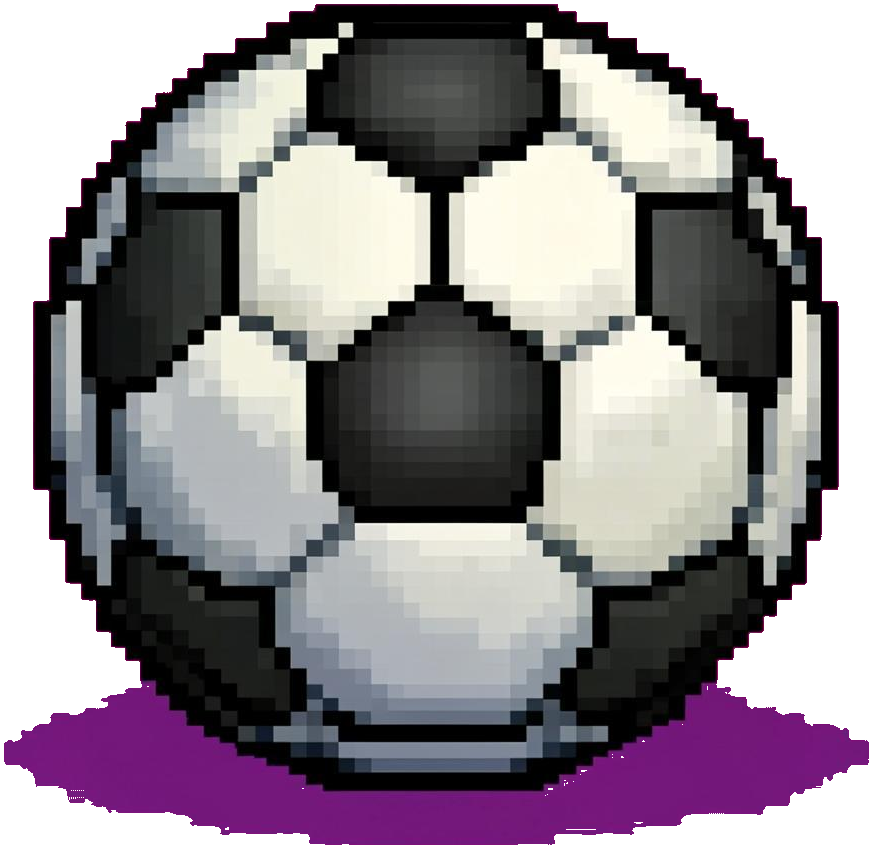
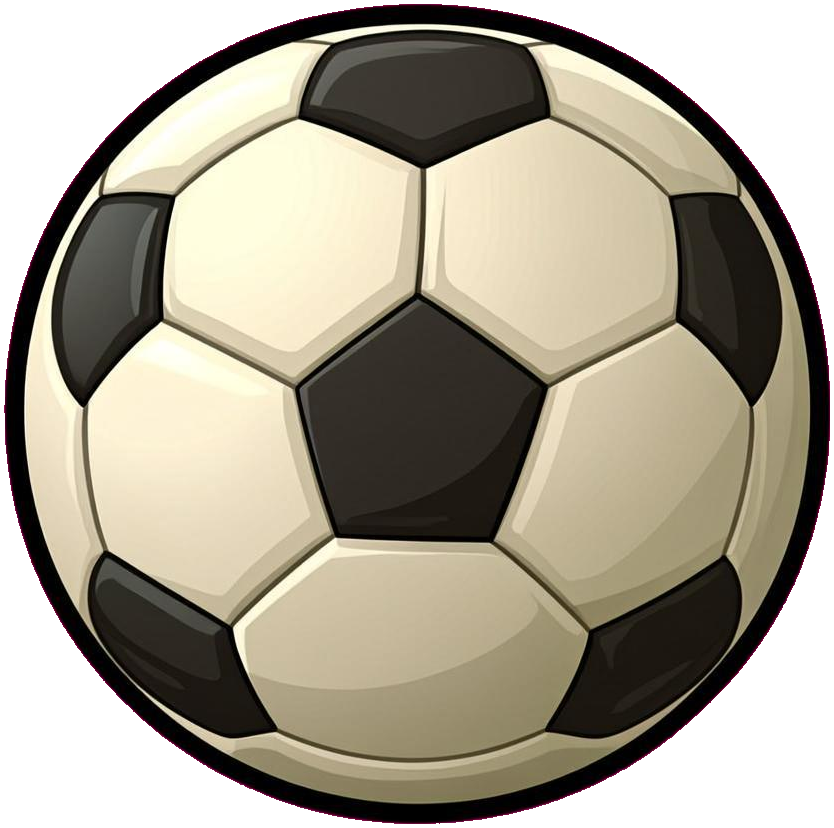
feat: vector-cartoon art pass — AI sky_sunset background, pitch radial glow (image-1 style), test stub for radial gradient

diff --git a/js_parts/09_render.js b/js_parts/09_render.js
@@ -36,6 +36,15 @@ RTL.render = (function (C, m, W, S) {
   /* ================= scene pieces ================= */
 
   function drawSky(ctx, view) {
+    /* AI-generated sunset sky (sky_sunset.png) when loaded — cover-fit.
+       Procedural gradient+sun remains the fallback and light-flicker layer. */
+    const skyImg = (typeof RTL !== "undefined" && RTL.art && RTL.art.get("sky_sunset")) || null;
+    if (skyImg) {
+      const s = Math.max(view.w / skyImg.width, view.h / skyImg.height);
+      const dw = skyImg.width * s, dh = skyImg.height * s;
+      ctx.drawImage(skyImg, (view.w - dw) / 2, (view.h - dh) / 2, dw, dh);
+      return;
+    }
     /* POP-ART SUNSET: purple top -> hot pink -> orange blaze at the horizon */
     const g = ctx.createLinearGradient(0, 0, 0, view.h);
     g.addColorStop(0, C.COLORS.sky);
@@ -143,12 +152,22 @@ RTL.render = (function (C, m, W, S) {
 
   function drawPitch(ctx, view) {
     const cam = view.cam;
-    /* grass base diamond */
-    ctx.fillStyle = C.COLORS.grassA;
+    /* grass base diamond with VECTOR-CARTOON depth (image-1 style): a soft
+       radial glow centered on the pitch brightens the middle, edges fall to
+       a deeper green — gives the clean saturated look without blur filters
+       (single gradient fill = fast). */
     const corners = [
       m.project(0, 0, 0, cam), m.project(C.PITCH_W, 0, 0, cam),
       m.project(C.PITCH_W, C.PITCH_H, 0, cam), m.project(0, C.PITCH_H, 0, cam),
     ];
+    const mid = m.project(C.PITCH_W / 2, C.PITCH_H / 2, 0, cam);
+    const rad = Math.max(
+      Math.hypot(corners[0].x - mid.x, corners[0].y - mid.y), 1
+    );
+    const glow = ctx.createRadialGradient(mid.x, mid.y, rad * 0.15, mid.x, mid.y, rad);
+    glow.addColorStop(0, C.COLORS.grassGlow || "#4fe06b");
+    glow.addColorStop(1, C.COLORS.grassA);
+    ctx.fillStyle = glow;
     ctx.beginPath();
     ctx.moveTo(corners[0].x, corners[0].y);
     for (let i = 1; i < 4; i++) ctx.lineTo(corners[i].x, corners[i].y);

diff --git a/public/js_parts/09_render.js b/public/js_parts/09_render.js
@@ -36,6 +36,15 @@ RTL.render = (function (C, m, W, S) {
   /* ================= scene pieces ================= */
 
   function drawSky(ctx, view) {
+    /* AI-generated sunset sky (sky_sunset.png) when loaded — cover-fit.
+       Procedural gradient+sun remains the fallback and light-flicker layer. */
+    const skyImg = (typeof RTL !== "undefined" && RTL.art && RTL.art.get("sky_sunset")) || null;
+    if (skyImg) {
+      const s = Math.max(view.w / skyImg.width, view.h / skyImg.height);
+      const dw = skyImg.width * s, dh = skyImg.height * s;
+      ctx.drawImage(skyImg, (view.w - dw) / 2, (view.h - dh) / 2, dw, dh);
+      return;
+    }
     /* POP-ART SUNSET: purple top -> hot pink -> orange blaze at the horizon */
     const g = ctx.createLinearGradient(0, 0, 0, view.h);
     g.addColorStop(0, C.COLORS.sky);
@@ -143,12 +152,22 @@ RTL.render = (function (C, m, W, S) {
 
   function drawPitch(ctx, view) {
     const cam = view.cam;
-    /* grass base diamond */
-    ctx.fillStyle = C.COLORS.grassA;
+    /* grass base diamond with VECTOR-CARTOON depth (image-1 style): a soft
+       radial glow centered on the pitch brightens the middle, edges fall to
+       a deeper green — gives the clean saturated look without blur filters
+       (single gradient fill = fast). */
     const corners = [
       m.project(0, 0, 0, cam), m.project(C.PITCH_W, 0, 0, cam),
       m.project(C.PITCH_W, C.PITCH_H, 0, cam), m.project(0, C.PITCH_H, 0, cam),
     ];
+    const mid = m.project(C.PITCH_W / 2, C.PITCH_H / 2, 0, cam);
+    const rad = Math.max(
+      Math.hypot(corners[0].x - mid.x, corners[0].y - mid.y), 1
+    );
+    const glow = ctx.createRadialGradient(mid.x, mid.y, rad * 0.15, mid.x, mid.y, rad);
+    glow.addColorStop(0, C.COLORS.grassGlow || "#4fe06b");
+    glow.addColorStop(1, C.COLORS.grassA);
+    ctx.fillStyle = glow;
     ctx.beginPath();
     ctx.moveTo(corners[0].x, corners[0].y);
     for (let i = 1; i < 4; i++) ctx.lineTo(corners[i].x, corners[i].y);

diff --git a/test/test-full.js b/test/test-full.js
@@ -23,7 +23,7 @@ function fakeCtx() {
         if (prop === "fillRect") t._calls.fillRect++;
         if (prop === "fillText") t._calls.fillText++;
         if (prop === "beginPath" || prop === "fill" || prop === "stroke") t._calls.path++;
-        if (prop === "createLinearGradient") return { addColorStop() {} };
+        if (prop === "createLinearGradient" || prop === "createRadialGradient") return { addColorStop() {} };
         if (prop === "measureText") return { width: 10 };
         return undefined;
       };

diff --git a/js_parts/03b_art.js b/js_parts/03b_art.js
@@ -13,6 +13,7 @@ RTL.art = (function () {
     taxi_blue: "art/taxi_blue.png",
     taxi_orange: "art/taxi_orange.png",
     ball: "art/ball.png",
+    sky_sunset: "art/sky_sunset.png",
   };
   let loaded = 0, failed = 0, total = 0;
 

diff --git a/public/js_parts/03b_art.js b/public/js_parts/03b_art.js
@@ -13,6 +13,7 @@ RTL.art = (function () {
     taxi_blue: "art/taxi_blue.png",
     taxi_orange: "art/taxi_orange.png",
     ball: "art/ball.png",
+    sky_sunset: "art/sky_sunset.png",
   };
   let loaded = 0, failed = 0, total = 0;
 
